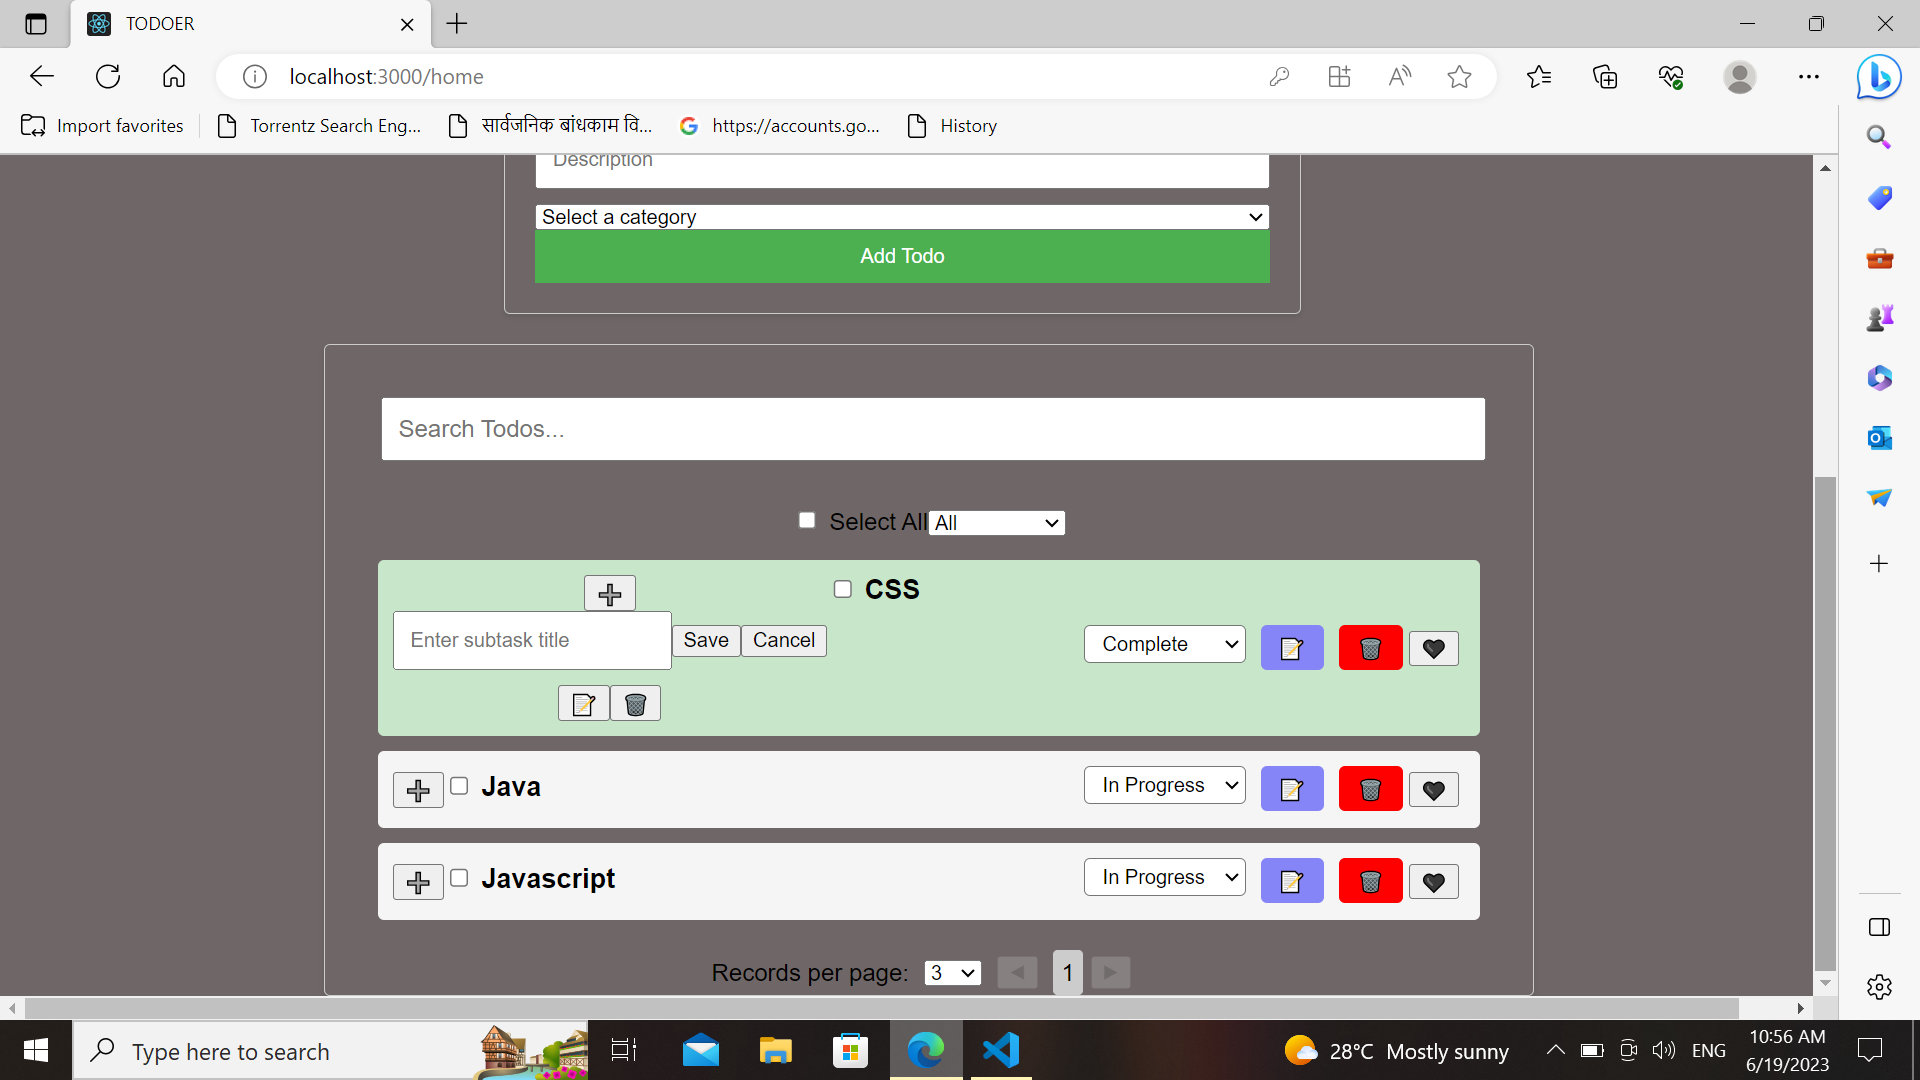
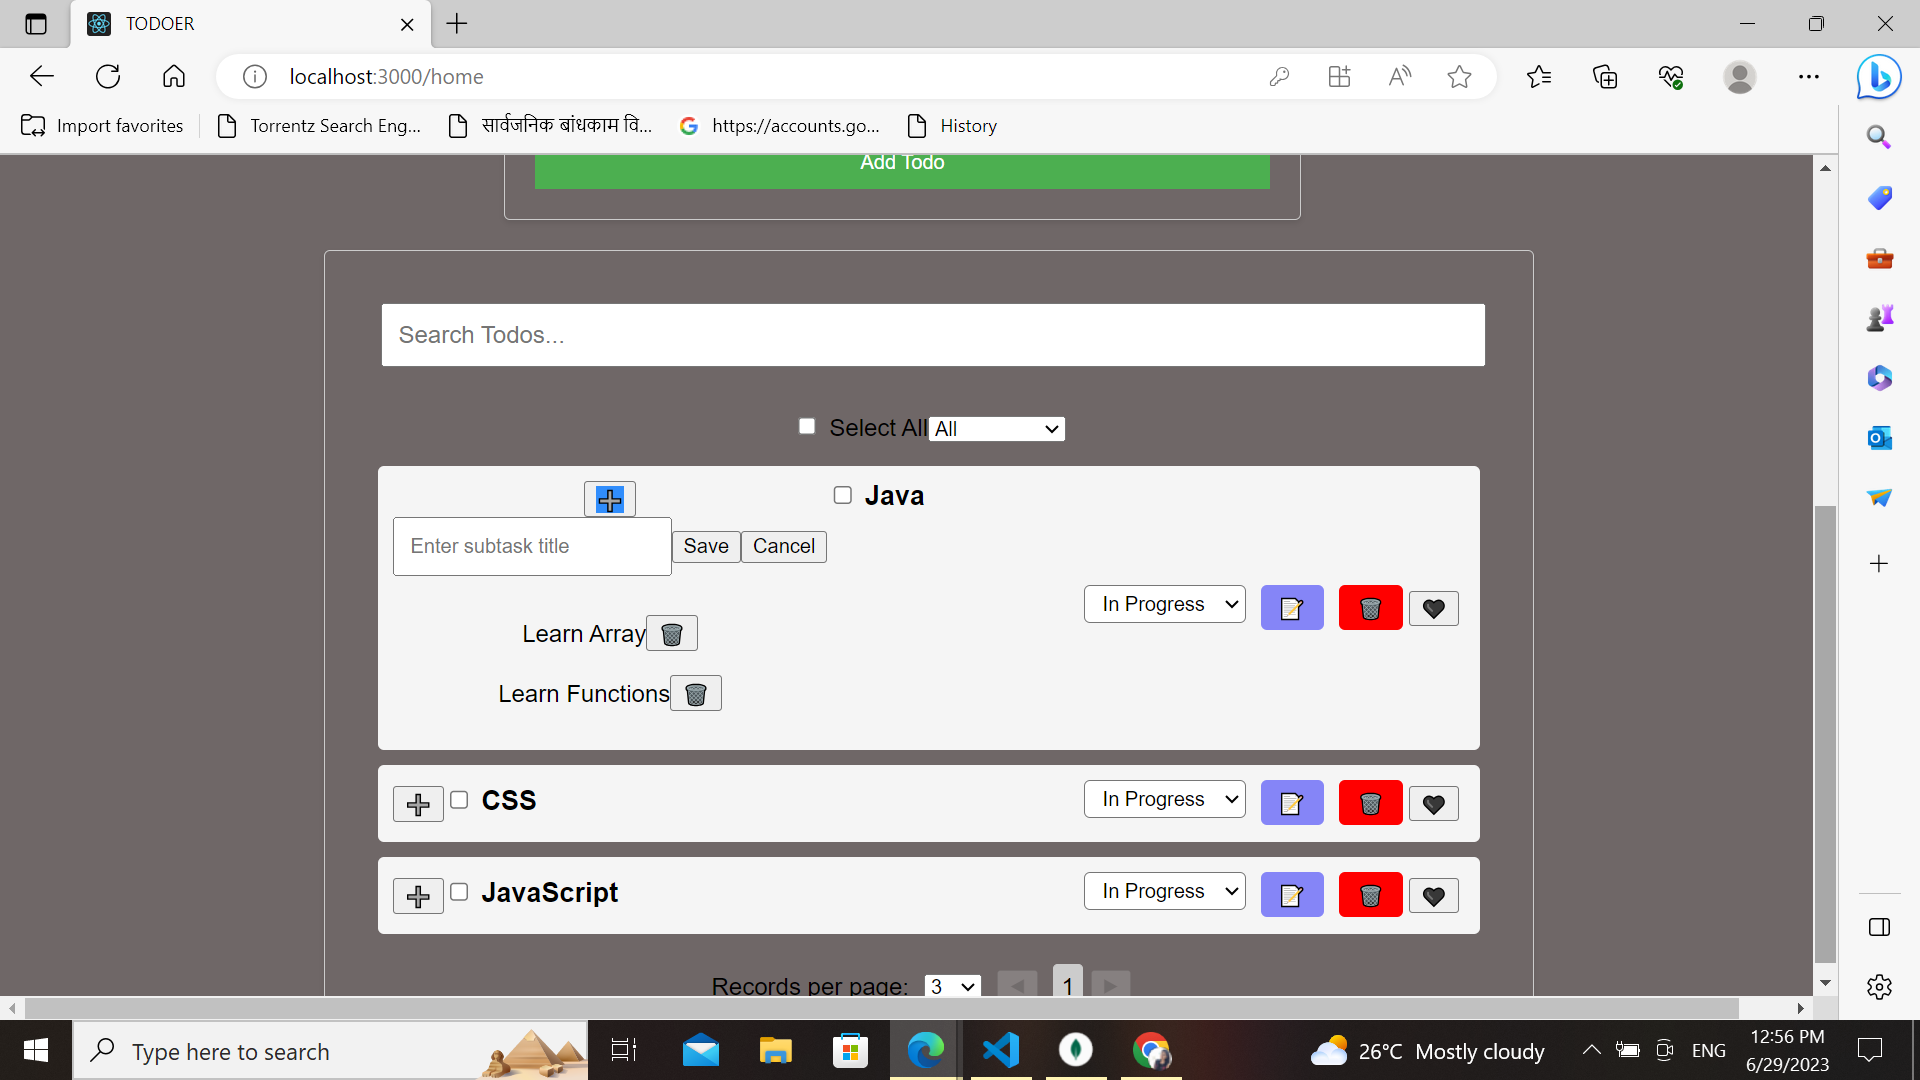
Successfully Added Subtasks for each todo

diff --git a/server/controllers/todoController.js b/server/controllers/todoController.js
@@ -1,6 +1,5 @@
-const Todo = require('../models/todo');
-const mongoose = require('mongoose');
-const SubTask = require('../models/subtask');
+const { Todo, Subtask } = require('../models/todo');
+const shortid = require('shortid');
 
 // Get all todos
 exports.getTodos = async (req, res) => {
@@ -30,14 +29,11 @@ exports.getTodoById = async (req, res) => {
 // Create a new todo
 exports.createTodo = async (req, res) => {
   try {
-    const { id, title, description, category, status } = req.body;
-    const todo = new Todo({
-      id,
-      title,
-      description,
-      category,
-      status,
-    });
+    const { title, description, category, status } = req.body;
+    const id = shortid.generate(); // Generate a unique id
+    console.log(id);
+    const todo = new Todo({ id, title, description, category, status });
+    console.log(todo);
     await todo.save();
     res.json(todo);
   } catch (error) {
@@ -84,25 +80,23 @@ exports.deleteTodo = async (req, res) => {
 exports.createSubTask = async (req, res) => {
   console.log('hello');
   try {
-    const id = req.params;
-    const title = req.body;
+    const id = req.params.id;
+    const nid = shortid.generate();
+    const title = req.body.title;
 
     console.log(id);
-
-    const isValidObjectId = mongoose.Types.ObjectId.isValid(id);
-    if (!isValidObjectId) {
-      return res.status(404).json({ error: 'Invalid todo ID' });
-    }
 
     const todo = await Todo.findById(id);
     if (!todo) {
       return res.status(404).json({ error: 'Todo not found' });
     }
-
-    const subtask = new SubTask({
+    console.log(todo);
+    const subtask = new Subtask({
+      id: nid,
       title,
-      todoId: todo.id,
+      todo: todo._id,
     });
+
     console.log(subtask);
 
     await subtask.save();
@@ -120,18 +114,18 @@ exports.createSubTask = async (req, res) => {
 // Update a subtask
 exports.updateSubTask = async (req, res) => {
   try {
-    const { todoId, subtaskId } = req.params;
+    const { id, subtaskId } = req.params;
     const { title } = req.body;
 
-    const todo = await Todo.findById(todoId);
+    const todo = await Todo.findById(id);
     if (!todo) {
       return res.status(404).json({ error: 'Todo not found' });
     }
 
-    const subtask = await SubTask.updateOne(
-      { _id: subtaskId, todoId: todo._id },
+    const subtask = await Subtask.findOneAndUpdate(
+      { _id: subtaskId, id: todo._id },
       { title },
-      { new: true }
+      { new: true } // To return the updated subtask instead of the old one
     );
 
     if (!subtask) {
@@ -148,26 +142,51 @@ exports.updateSubTask = async (req, res) => {
 // Delete a subtask
 exports.deleteSubTask = async (req, res) => {
   try {
-    const { todoId, subtaskId } = req.params;
+    const { id, subtaskId } = req.params;
 
+    console.log(req.params);
+
+    console.log(id);
+    console.log(subtaskId);
+
+    const todo = await Todo.findById(id);
+    if (!todo) {
+      return res.status(404).json({ error: 'Todo not found' });
+    }
+
+    const subtask = await Subtask.findByIdAndDelete(subtaskId);
+    if (!subtask) {
+      return res.status(404).json({ error: 'Subtask not found' });
+    }
+
+    // Perform any additional actions after successful deletion, such as updating the todo
+    todo.subtasks.pull(subtask._id);
+    await todo.save();
+
+    res.json({ message: 'Subtask deleted successfully' });
+  } catch (error) {
+    console.error(error);
+    res.status(500).json({ error: 'Server error' });
+  }
+};
+
+// Get all subtasks for a todo
+exports.getSubtasks = async (req, res) => {
+  try {
+    const todoId = req.params.id;
+
+    console.log(todoId);
+
+    // Retrieve the todo by its ID
     const todo = await Todo.findById(todoId);
     if (!todo) {
       return res.status(404).json({ error: 'Todo not found' });
     }
 
-    const subtask = await SubTask.deleteOne({
-      _id: subtaskId,
-      todoId: todo._id,
-    });
-
-    if (!subtask) {
-      return res.status(404).json({ error: 'Subtask not found' });
-    }
-
-    todo.subtasks.pull(subtask._id);
-    await todo.save();
-
-    res.json({ message: 'Subtask deleted successfully' });
+    // Fetch the subtasks associated with the todo
+    const subtasks = await Subtask.find({ todo: todoId });
+    console.log(subtasks);
+    res.json(subtasks);
   } catch (error) {
     console.error(error);
     res.status(500).json({ error: 'Server error' });

diff --git a/client/src/components/SubtaskCreationDialog.js b/client/src/components/SubtaskCreationDialog.js
@@ -1,53 +1,52 @@
-import React, { useState } from 'react';
+import React, { useState, useEffect } from 'react';
 import axios from 'axios';
 
 const SubtaskCreationDialog = ({
   todoId,
   onSaveSubtask,
   subtask,
-  onUpdateSubtask,
   onDeleteSubtask,
 }) => {
   const [title, setTitle] = useState('');
-  const [editMode, setEditMode] = useState(false);
+  const [subtasks, setSubtasks] = useState([]);
 
-  const handleEdit = () => {
-    setEditMode(true);
-  };
+  useEffect(() => {
+    fetchSubtasks();
+  }, []);
 
-  const handleUpdate = () => {
-    // Check if subtask is defined before updating
-    if (!subtask) {
-      console.error('Subtask is undefined');
-      return;
-    }
-
+  const fetchSubtasks = () => {
     axios
-      .put(`/api/todos/${subtask.todoId}/subtasks/${subtask.id}`, { title })
+      .get(`/api/todos/${todoId}/subtasks`)
       .then((response) => {
-        onUpdateSubtask(subtask.id, title);
-        setEditMode(false);
+        setSubtasks(response.data);
       })
       .catch((error) => {
-        // Handle error
-        console.error('Error updating subtask:', error);
+        console.error('Error fetching subtasks:', error);
       });
   };
 
-  const handleDelete = () => {
+  const handleDelete = (currsubtask) => {
     // Check if subtask is defined before deleting
-    if (!subtask) {
-      console.error('Subtask is undefined');
+    if (!currsubtask) {
+      console.error('currsubtask not found');
       return;
     }
 
     axios
-      .delete(`/api/todos/${subtask.todoId}/subtasks/${subtask.id}`)
-      .then((response) => {
-        onDeleteSubtask(subtask.id);
+      .delete(`/api/todos/${todoId}/subtasks/${currsubtask._id}`)
+      .then(() => {
+        // Update the subtasks state by removing the deleted subtask
+        const updatedSubtasks = subtasks.filter(
+          (st) => st._id !== currsubtask._id
+        );
+        setSubtasks(updatedSubtasks);
+
+        // Notify the parent component about the delete
+        onDeleteSubtask(currsubtask._id);
+
+        console.log('Subtask deleted:', currsubtask._id);
       })
       .catch((error) => {
-        // Handle error
         console.error('Error deleting subtask:', error);
       });
   };
@@ -62,6 +61,7 @@ const SubtaskCreationDialog = ({
       .then((response) => {
         onSaveSubtask(response.data);
         setTitle('');
+        fetchSubtasks(); // Fetch the updated list of subtasks after saving a new one
       })
       .catch((error) => {
         // Handle error
@@ -85,25 +85,12 @@ const SubtaskCreationDialog = ({
       <button onClick={handleSave}>Save</button>
       <button onClick={handleCancel}>Cancel</button>
       <div className='subtask'>
-        {editMode ? (
-          <input
-            type='text'
-            value={title}
-            onChange={(e) => setTitle(e.target.value)}
-          />
-        ) : (
-          subtask && <p>{subtask.title}</p>
-        )}
-        <div className='subtask-actions'>
-          {editMode ? (
-            <button onClick={handleUpdate}>Save</button>
-          ) : (
-            <>
-              <button onClick={handleEdit}>📝</button>
-              <button onClick={handleDelete}>🗑</button>
-            </>
-          )}
-        </div>
+        {subtasks.map((currsubtask) => (
+          <p key={currsubtask.id}>
+            {currsubtask.title}
+            <button onClick={() => handleDelete(currsubtask)}>🗑</button>
+          </p>
+        ))}
       </div>
     </div>
   );

diff --git a/client/src/components/TodoList.js b/client/src/components/TodoList.js
@@ -221,20 +221,31 @@ const TodoList = ({
               <div className='todo-check'>
                 <div>
                   {/* Add button */}
-                  <button onClick={() => handleOpenSubtaskDialog(todo.id)}>
+                  <button onClick={() => handleOpenSubtaskDialog(todo._id)}>
                     ➕
                   </button>
 
                   {/* Subtask dialog */}
-                  {openSubtaskDialogId === todo.id && (
-                    <SubtaskCreationDialog
-                      todoId={todo.id}
-                      onSaveSubtask={(subtask) => {
-                        // Handle saving the subtask
-                        console.log('Save subtask:', subtask);
-                        handleCloseSubtaskDialog();
-                      }}
-                    />
+                  {openSubtaskDialogId === todo._id && (
+                    <div className='subtask-dialog'>
+                      <div className='subtask-dialog-content'>
+                        <SubtaskCreationDialog
+                          todoId={todo._id}
+                          subtask={todo.subtasks}
+                          subtakId={todo.subtasks._id}
+                          onSaveSubtask={(subtask) => {
+                            // Handle saving the subtask
+                            console.log('Save subtask:', subtask);
+                            handleCloseSubtaskDialog();
+                          }}
+                          onDeleteSubtask={(subtaskId) => {
+                            // Handle deleting the subtask
+                            console.log('Delete subtask:', subtaskId);
+                          }}
+                        />
+                        <p>{todo.subtasks.title}</p>
+                      </div>
+                    </div>
                   )}
                 </div>
                 <div>

diff --git a/server/models/todo.js b/server/models/todo.js
@@ -2,10 +2,26 @@ const mongoose = require('mongoose');
 
 const statusEnum = ['in-progress', 'on-hold', 'complete'];
 
+const subtaskSchema = new mongoose.Schema({
+  id: {
+    type: String,
+    required: true,
+    //unique: true,
+  },
+  title: {
+    type: String,
+    required: true,
+  },
+
+  todo: { type: mongoose.Schema.Types.ObjectId, ref: 'Todo' },
+});
+
+const Subtask = mongoose.model('Subtask', subtaskSchema);
+
 const todoSchema = new mongoose.Schema({
   id: {
-    type: Number,
-    require: true,
+    type: String,
+    required: true,
     unique: true,
   },
   title: {
@@ -25,8 +41,10 @@ const todoSchema = new mongoose.Schema({
     enum: statusEnum,
     default: 'in-progress',
   },
+
+  subtasks: [{ type: mongoose.Schema.Types.ObjectId, ref: 'Subtask' }],
 });
 
 const Todo = mongoose.model('Todo', todoSchema);
 
-module.exports = Todo;
+module.exports = { Todo, Subtask };

diff --git a/server/server.js b/server/server.js
@@ -1,6 +1,7 @@
 const express = require('express');
 const config = require('./config/config');
 const todoRoutes = require('./routes/todos');
+const cors = require('cors');
 
 //require passport and JWT Strategy for auth
 const passport = require('passport');
@@ -10,6 +11,8 @@ const passportJWT = require('./config/passport-jwt-strategy');
 
 // Create Express app
 const app = express();
+
+app.use(cors());
 
 // Middleware
 app.use(express.json());

diff --git a/client/src/components/AddTodoForm.js b/client/src/components/AddTodoForm.js
@@ -30,17 +30,12 @@ const AddTodoForm = ({ onAddTodo }) => {
       title: title.trim(),
       description: description.trim(),
       category: selectedCategory,
-      id: generateRandomId(),
     };
     onAddTodo(newTodo);
     setTitle('');
     setDescription('');
     setSelectedCategory('');
   };
-
-  function generateRandomId() {
-    return Math.floor(Math.random() * 1000);
-  }
 
   return (
     <form onSubmit={handleSubmit}>

diff --git a/server/routes/todos.js b/server/routes/todos.js
@@ -43,4 +43,7 @@ router.put('/:id/subtasks/:subtaskId', todoController.updateSubTask);
 // DELETE /api/todos/:id/subtasks/:subtaskId
 router.delete('/:id/subtasks/:subtaskId', todoController.deleteSubTask);
 
+// GET /api/todos/:id/subtasks
+router.get('/:id/subtasks', todoController.getSubtasks);
+
 module.exports = router;
